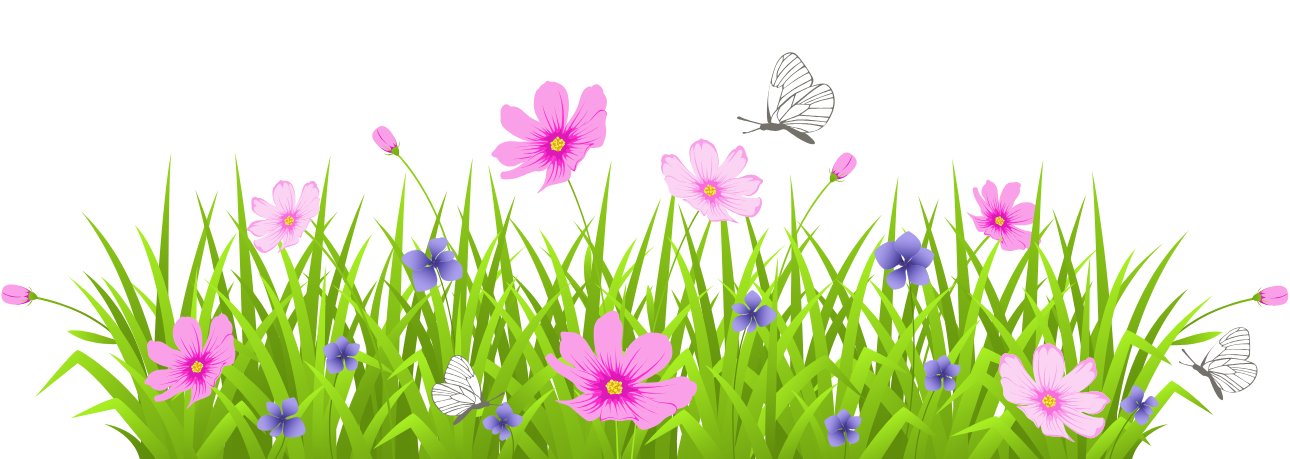
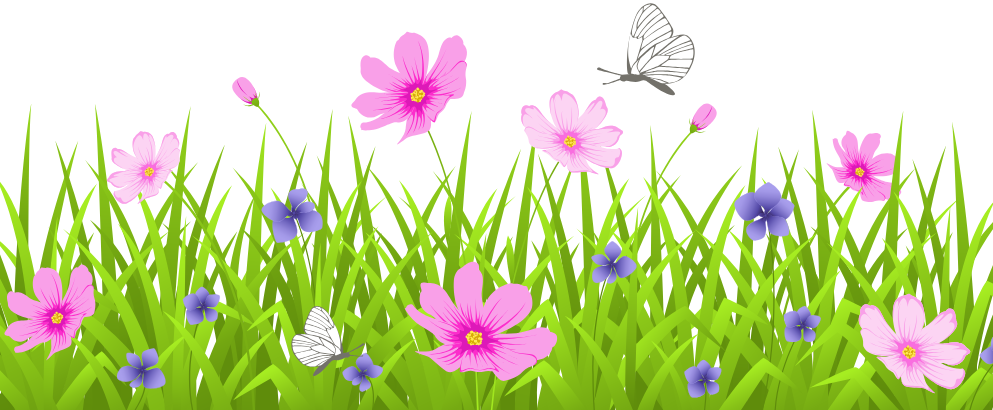
responsividade

diff --git a/components/Welcome/Welcome.css b/components/Welcome/Welcome.css
@@ -3,18 +3,20 @@
     flex-direction: column;
     height: 100vh;
     position: relative;
+    overflow: hidden;
 }
 
 .img-galho {
     width: 50%;
     top: 0;
     left: 0;
+    margin-bottom: 1rem;
 }
 
 .img-nome{
     width: 20%;
-    bottom: 58%;
-    right: 5%;
+    bottom: 44%;
+    right: 4%;
     position: absolute;
 }
 
@@ -28,21 +30,21 @@
     z-index: 1;
 }
 
-.welcome-content p {
-    font-size: 1.3rem;
+.welcome-top p {
+    font-size: 1.4rem;
     font-weight: 500;
     color: black;
     text-align: justify;
-    margin-top: -40%;
-    margin-left: 1rem;
-    margin-right: 1rem;
+    margin-top: 1rem;
+    margin-left: 2rem;
+    margin-right: 2rem;
     font-family: "Poppins", serif;
     font-weight: 500;
     font-style: normal;
     text-shadow: 2px 2px 2px rgba(0, 0, 0, 0.116);
 }
 
-.welcome-content h1 {
+.welcome-title h1 {
     font-size: 4rem;
     font-weight: 700;
     color: #9b71e6;
@@ -51,7 +53,7 @@
     font-weight: 500;
     font-style: normal;
     text-shadow: 2px 2px 2px rgba(0, 0, 0, 0.301);
-    margin-top: 1rem;
+    margin-top: 2rem;
 }
 
 .btn-details {
@@ -64,11 +66,11 @@
 .btn-details img {
     width: 28%;
     position: absolute;
-    bottom: 39%;
+    bottom: 32%;
     left: 25%;
 }
 
-.welcome-content button {
+.btn-details button {
     font-size: 1.2rem;
     font-weight: 500;
     color: white;
@@ -89,14 +91,39 @@
 }
 
 .img-footer{
+    display: flex;
     position: absolute;
     bottom: 0;
-    left: -15%;
     width: 100%;
 }
 
 .img-footer img {
-    width: 130%;
+    width: 100%;
+    height: 100%;
     bottom: 0;
     right: 0;
+}
+
+@media screen and (max-height: 844px) {
+
+    .img-nome {
+        bottom: 43%;
+        right: 10%;
+    }
+
+
+    .welcome-title h1 {
+        font-size: 3rem;
+    }
+
+    .btn-details img {
+        position: absolute;
+        bottom: 28%;
+        left: 25%;
+    }
+
+    .btn-details button {
+        font-size: 1rem;
+        margin-top: 2rem;
+    }
 }

diff --git a/components/Welcome/Welcome.tsx b/components/Welcome/Welcome.tsx
@@ -4,18 +4,18 @@ import './Welcome.css';
 export default function Welcome() {
   return (
     <section className="welcome">
-        <div>
+        <div className='welcome-top'>
           <img src="/images/galho2.png" alt="" className="img-galho"/>
-        </div>
-        <div className="welcome-content">
           <p>Um passarinho me contou que as borboletas estão a voar as flores já soltam perfume no ar o jardim está em festa e você não pode faltar!</p>
-          <img src="/images/borboleta-nome.png" alt="" className='img-nome'/>
-          <h1>Ana Laura</h1>
+        </div>
+          <div className='welcome-title'>
+            <img src="/images/borboleta-nome.png" alt="" className='img-nome'/>
+            <h1>Ana Laura</h1>
+          </div>
           <div className='btn-details'>
             <img src="/images/passaro-botao.png" alt="" />
             <button>VER DETALHES DA FESTA</button>
           </div>
-        </div>
         <div className='img-footer'>
           <img src="/images/footer.png" alt=""/>
         </div>

diff --git a/pages/Home/Home.tsx b/pages/Home/Home.tsx
@@ -5,9 +5,7 @@ import Welcome from '../../components/Welcome/Welcome';
 
 function Home() {
     return (
-        <div>
-            <Welcome />
-        </div>
+        <Welcome />
     )
 }
 
